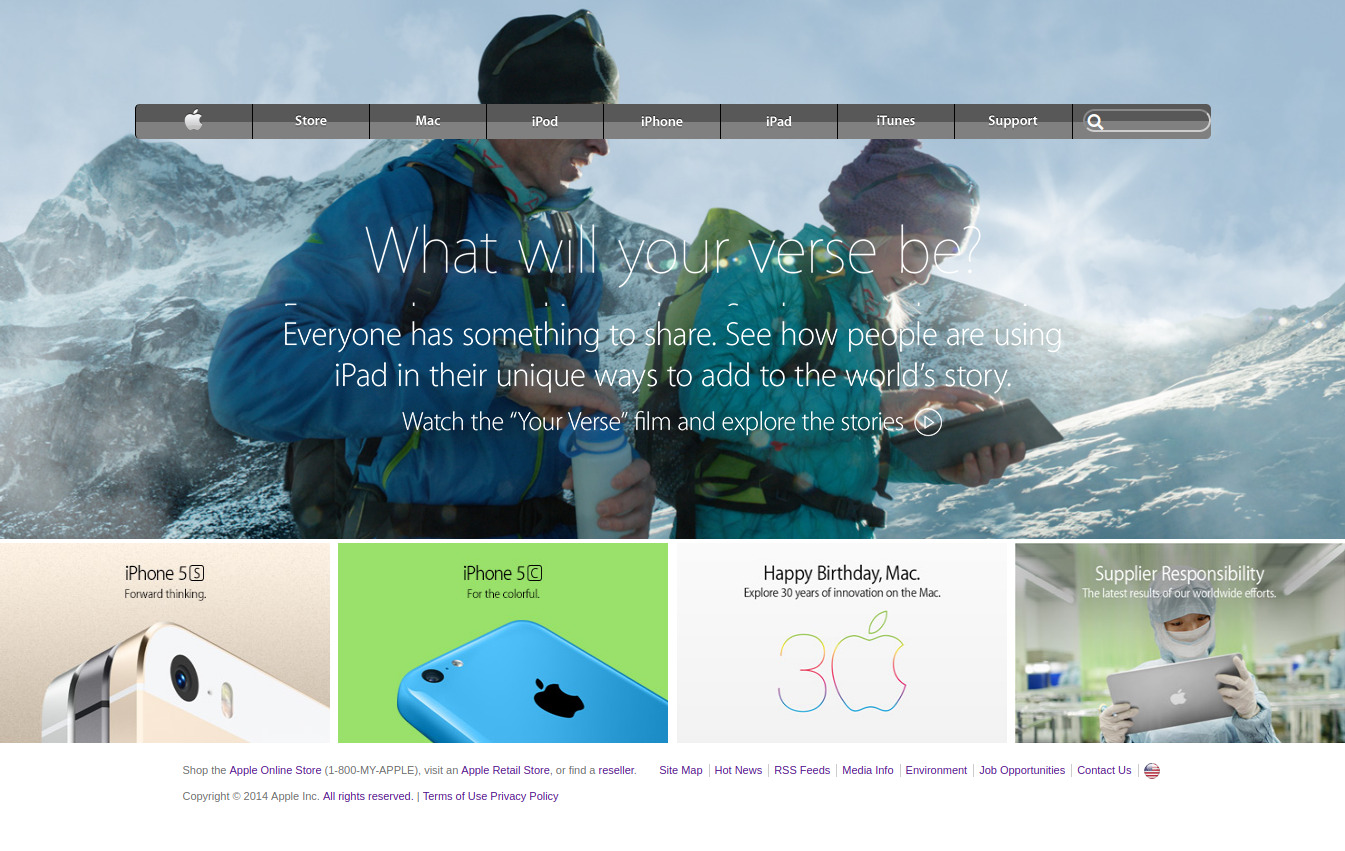
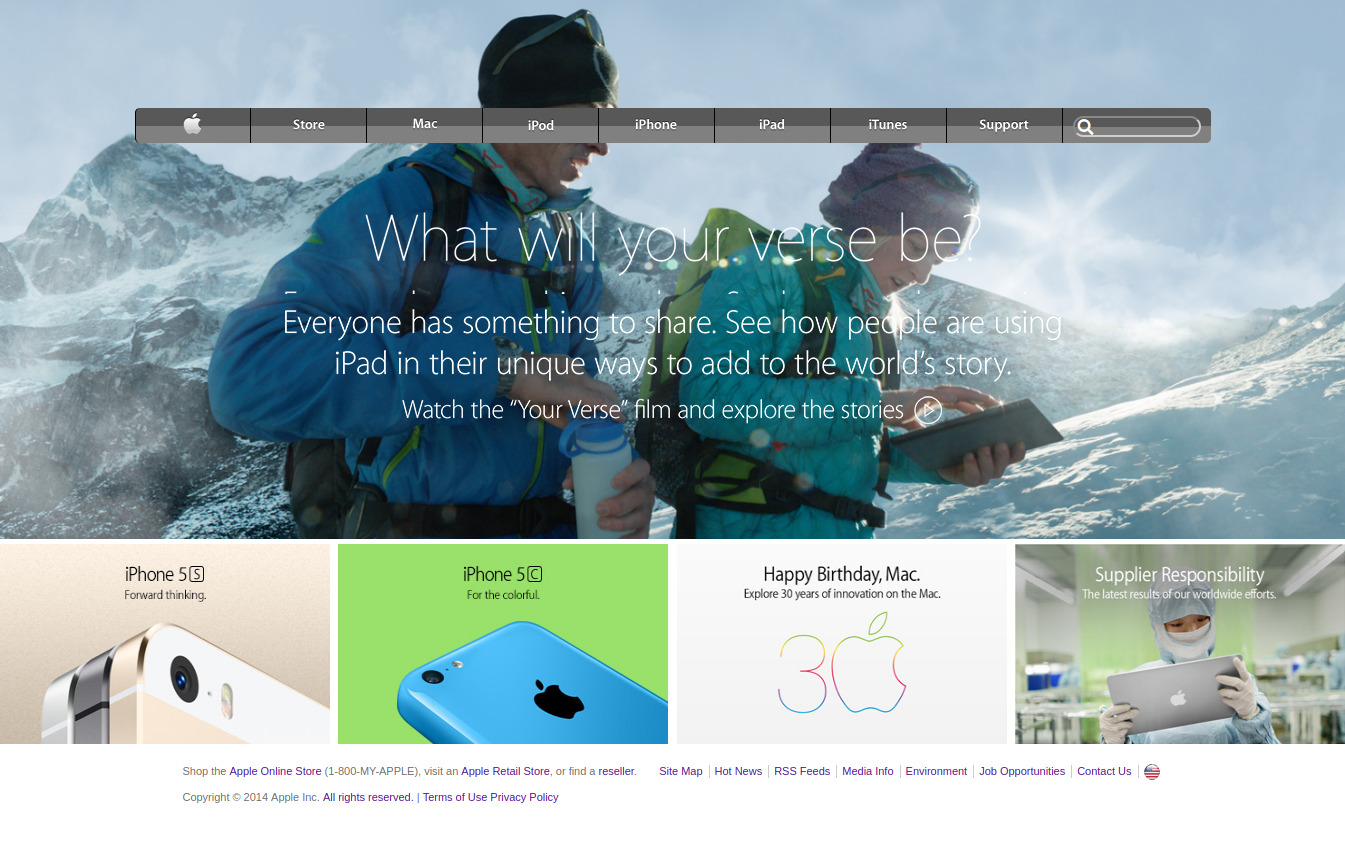
Fix centering input inside its box.

diff --git a/index.html b/index.html
@@ -13,35 +13,35 @@
 </head>
 
 <body>
-    <!-- #region navbar -->
-    <nav>
-        <ul class="nav-bar-items-container">
-            <li class="nav-item"><a href="#" class="item-1"></a>
-            </li>
-            <li class="nav-item"><a href="#" class="item-2"></a>
-            </li>
-            <li class="nav-item"><a href="#" class="item-3"></a>
-            </li>
-            <li class="nav-item"><a href="#" class="item-4"></a>
-            </li>
-            <li class="nav-item"><a href="#" class="item-5"></a>
-            </li>
-            <li class="nav-item"><a href="#" class="item-6"></a>
-            </li>
-            <li class="nav-item"><a href="#" class="item-7"></a>
-            </li>
-            <li class="nav-item"><a href="#" class="item-8"></a>
-            </li>
-            <li class="nav-item search-bar">
-                <input class="item-9" type="text">
-                <i class="fas fa-search search-icon"></i>
-            </li>
-        </ul>
-    </nav>
-    <!-- #endregion: navbar -->
-
     <!-- #region main -->
     <main>
+        <!-- #region navbar -->
+        <nav>
+            <ul class="nav-bar-items-container">
+                <li class="nav-item"><a href="#" class="item-1"></a>
+                </li>
+                <li class="nav-item"><a href="#" class="item-2"></a>
+                </li>
+                <li class="nav-item"><a href="#" class="item-3"></a>
+                </li>
+                <li class="nav-item"><a href="#" class="item-4"></a>
+                </li>
+                <li class="nav-item"><a href="#" class="item-5"></a>
+                </li>
+                <li class="nav-item"><a href="#" class="item-6"></a>
+                </li>
+                <li class="nav-item"><a href="#" class="item-7"></a>
+                </li>
+                <li class="nav-item"><a href="#" class="item-8"></a>
+                </li>
+                <li class="nav-item search-bar">
+                    <input class="item-9" type="text">
+                    <i class="fas fa-search search-icon"></i>
+                </li>
+            </ul>
+        </nav>
+        <!-- #endregion: navbar -->
+
         <!-- #region Title text -->
         <div class="main-text-container">
             <h1>
@@ -103,8 +103,9 @@
                     <li><a href="#">Environment</a></li>
                     <li><a href="#">Job Opportunities</a></li>
                     <li><a href="#">Contact Us</a></li>
-                    <li><a href="#"><img class="world-wide" src="https://web.archive.org/web/20140301004610im_/http://images.apple.com/global/elements/flags/16x16/usa.png"
-                            alt="Choose your country or region" width="16" height="16"></a></li>
+                    <li><a href="#"><img class="world-wide"
+                                src="https://web.archive.org/web/20140301004610im_/http://images.apple.com/global/elements/flags/16x16/usa.png"
+                                alt="Choose your country or region" width="16" height="16"></a></li>
                 </ul>
             </div>
             <p class="footer-copy-right-info">

diff --git a/CSS/styles.css b/CSS/styles.css
@@ -2,11 +2,11 @@
 
 * {
   box-sizing: border-box;
+  margin: 0;
+  padding: 0;
 }
 
 body {
-  margin: 0;
-  padding: 0;
   font-family: "Lucida Grande", "Lucida Sans Unicode", Helvetica, Arial, Verdana, sans-serif;
 }
 
@@ -14,10 +14,7 @@ main {
   background: url('https://web.archive.org/web/20140301004302im_/http://images.apple.com/v/home/as/images/your_verse_hero.jpg') 50% 100% no-repeat;
   background-size: cover;
   height: 93vh;
-  position: absolute;
-  top: 0;
-  left: 0;
-  right: 0;
+  max-width: 1440px;
 }
 
 nav {
@@ -25,7 +22,7 @@ nav {
   justify-content: center;
   align-content: center;
   position: relative;
-  top: 18vh;
+  top: 20%;
   z-index: 1;
 }
 
@@ -119,6 +116,7 @@ nav {
 
 .search-bar {
   padding-left: 10px;
+  padding-right: 10px;
   border-top-right-radius: 5px;
   border-bottom-right-radius: 5px;
   background: linear-gradient(#585858 50%, gray 50%);
@@ -127,7 +125,7 @@ nav {
 
 .item-9 {
   width: 128px;
-  margin-top: 5px;
+  margin-top: 8px;
   border-radius: 50px;
   padding-left: 20px;
   background: linear-gradient(#585858 50%, gray 50%);
@@ -166,7 +164,7 @@ nav {
 /* #region: Titles text */
 
 .main-text-container {
-  padding-top: 15%;
+  padding-top: 11.5%;
   text-align: center;
   color: white;
   line-height: 30px;
@@ -191,11 +189,11 @@ nav {
 /* #region: Other articles */
 
 .other-articles-container {
-  position: absolute;
-  bottom: -28.5vh;
+  position: relative;
+  top: 5px;
   display: flex;
   justify-content: space-between;
-  width: 100%;
+  max-width: 1440px;
 }
 
 .other-article-item img {
@@ -209,11 +207,10 @@ nav {
 .footer-links-container {
   display: flex;
   justify-content: center;
-  position: absolute;
-  bottom: -45vh;
+  position: relative;
   height: 90px;
-  width: 100%;
-  padding-top: 10px;
+  max-width: 1440px;
+  padding-top: 20px;
   line-height: 1.2rem;
   color: #6e6e6e;
 }
